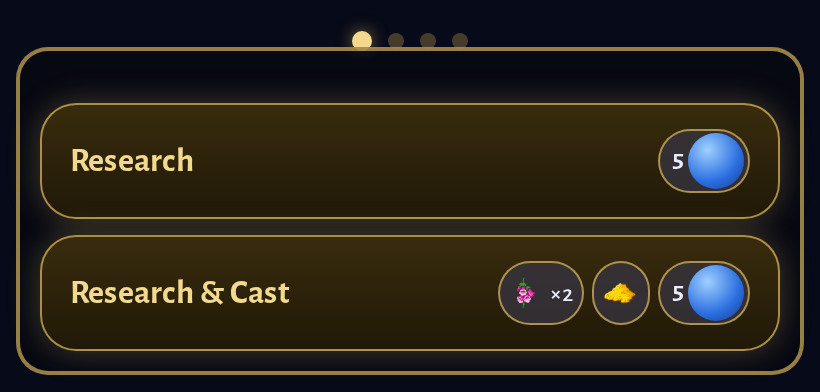
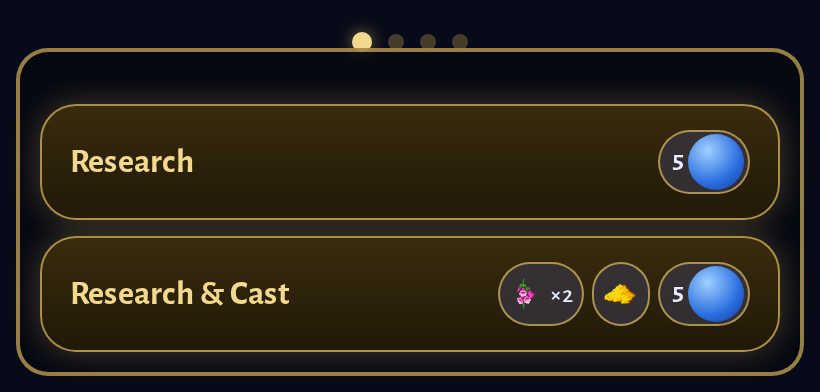
Fit Research action frame within 775px viewport

diff --git a/app/css/app.css b/app/css/app.css
@@ -802,3 +802,7 @@ input[type=range].slider::-moz-range-thumb { width: 28px; height: 28px; border-r
 .sname .diff-badge { display: block; margin: 4px auto 0; }
 
 @media (prefers-reduced-motion: reduce) { *, *::before, *::after { animation-duration: .01ms !important; transition-duration: .01ms !important; } }
+.expand:has(.research-action-frame) { --expand-slot: max(200px, calc(100vh - var(--expand-pad-t) - var(--clear-b) - 270px)); }
+@supports (height: 100dvh) {
+  .expand:has(.research-action-frame) { --expand-slot: max(200px, calc(100dvh - var(--expand-pad-t) - var(--clear-b) - 270px)); }
+}
